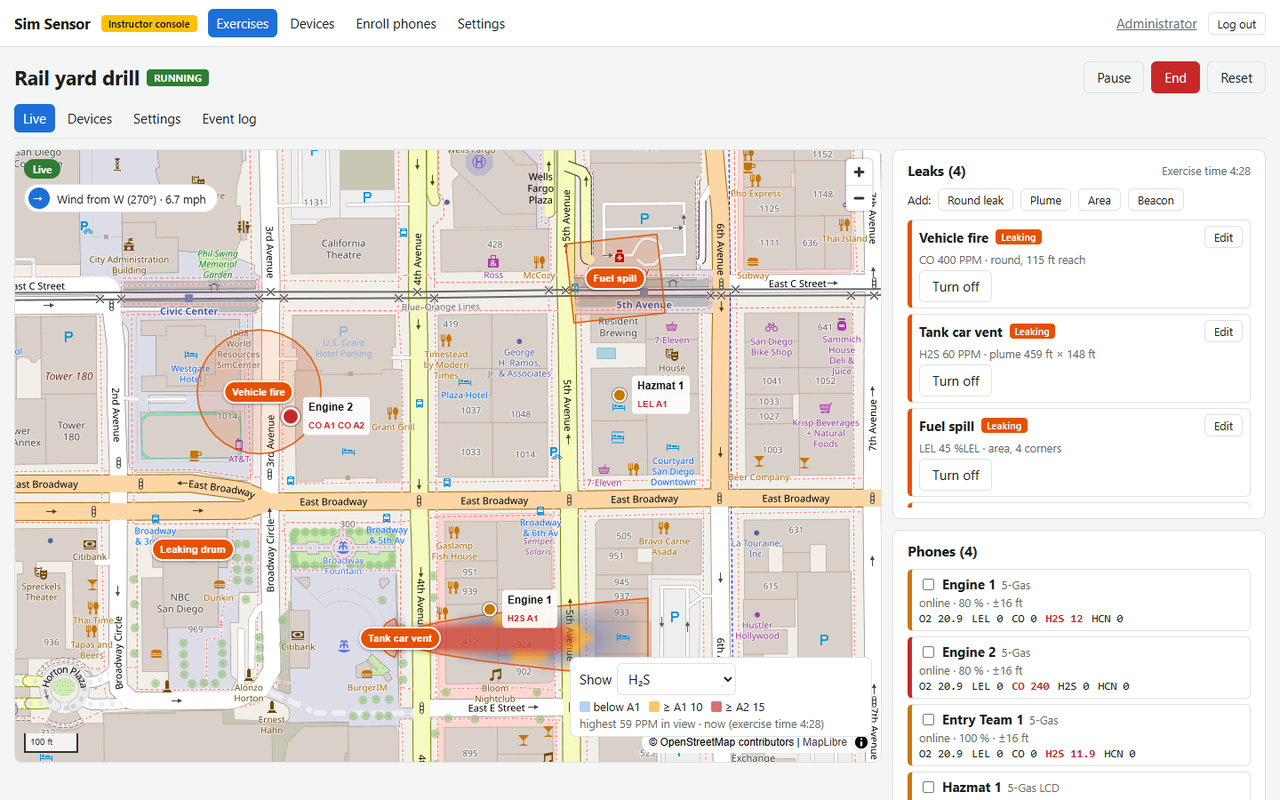
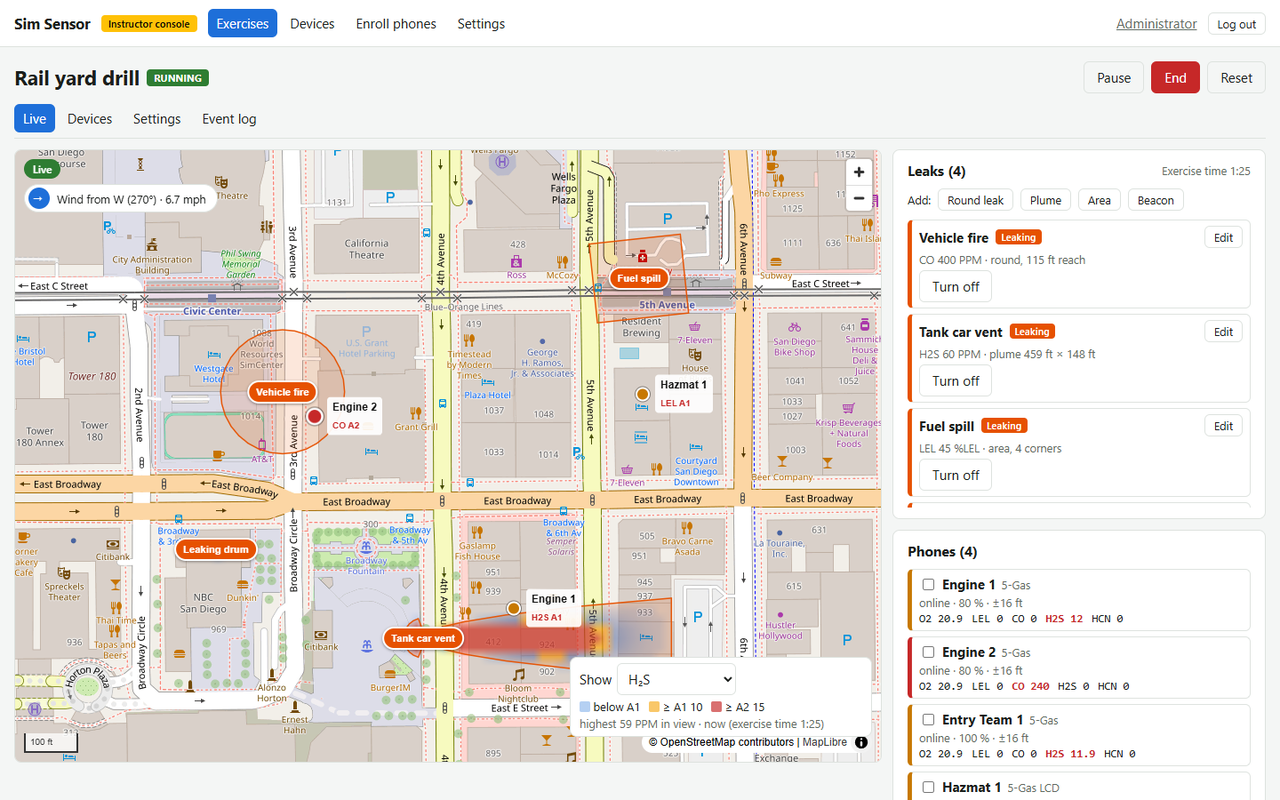
Map labels show the highest alarm; calibration pause follows visibility (v0.26.1)

Changed region(s): [[0.0, 0.1875, 0.6875, 0.9688], [0.5625, 0.9375, 0.625, 0.9688]]

diff --git a/android/src/main/java/com/taksolutions/simsensor/MainActivity.kt b/android/src/main/java/com/taksolutions/simsensor/MainActivity.kt
@@ -12,7 +12,6 @@ import androidx.activity.compose.setContent
 import androidx.activity.enableEdgeToEdge
 import androidx.activity.result.contract.ActivityResultContracts
 import androidx.compose.runtime.Composable
-import androidx.compose.runtime.DisposableEffect
 import androidx.compose.runtime.LaunchedEffect
 import androidx.compose.runtime.getValue
 import androidx.compose.runtime.mutableStateOf
@@ -22,6 +21,7 @@ import androidx.compose.runtime.setValue
 import androidx.core.content.ContextCompat
 import androidx.lifecycle.Lifecycle
 import androidx.lifecycle.compose.LifecycleEventEffect
+import androidx.lifecycle.compose.LifecycleStartEffect
 import androidx.lifecycle.compose.collectAsStateWithLifecycle
 import androidx.lifecycle.viewmodel.compose.viewModel
 import androidx.lifecycle.viewmodel.initializer
@@ -100,9 +100,12 @@ class MainActivity : ComponentActivity() {
                         if (beacon == null) {
                             LaunchedEffect(Unit) { calibrating = null } // beacon left the exercise
                         } else {
-                            DisposableEffect(Unit) {
+                            // Paused only while the screen is really on show: leaving with Home
+                            // (app in the background) resumes readings and alarms; coming back
+                            // pauses them again.
+                            LifecycleStartEffect(Unit) {
                                 vm.setCalibrating(true)
-                                onDispose { vm.setCalibrating(false) }
+                                onStopOrDispose { vm.setCalibrating(false) }
                             }
                             CalibrationScreen(
                                 beacon = beacon,

diff --git a/console/src/pages/exercise/LiveTab.tsx b/console/src/pages/exercise/LiveTab.tsx
@@ -19,7 +19,7 @@ import { NEW_LEAK_ID, newLeak } from "../../leaks/newLeak";
 import { PreviewControl } from "../../leaks/PreviewControl";
 import { emitting } from "../../leaks/timing";
 import { alarmSeverity, isStale, useExerciseLive, type LiveDevice } from "../../live/useExerciseLive";
-import { alarmLabel, alarmLabels } from "../../meter/alarms";
+import { alarmLabel, alarmLabels, shownAlarms } from "../../meter/alarms";
 import { combinedChannels, monitorFor } from "../../meter/monitors";
 import { LeakLayer } from "../../map/LeakLayer";
 import { LiveMap } from "../../map/LiveMap";
@@ -295,7 +295,7 @@ function DeviceRow({
           const value = device.last?.readings[id];
           const alarm = device.last?.alarms.filter((a) => a.startsWith(`${id}:`)).map((a) => a.split(":")[1]);
           return (
-            <span key={id} className={`reading${alarm?.length ? " alarm" : ""}`} title={alarm?.map((a) => alarmLabel(`${id}:${a}`)).join(" ")}>
+            <span key={id} className={`reading${alarm?.length ? " alarm" : ""}`} title={shownAlarms((alarm ?? []).map((a) => `${id}:${a}`)).map(alarmLabel).join(" ")}>
               {id} {value ?? (alarm?.includes("FAULT") ? "FAULT" : "—")}
             </span>
           );

diff --git a/console/src/map/LiveMap.tsx b/console/src/map/LiveMap.tsx
@@ -2,7 +2,7 @@ import maplibregl, { type GeoJSONSource, type Map as MapLibre } from "maplibre-g
 import { useEffect, useRef } from "react";
 import type { ConsoleConfig, Units } from "../api/endpoints";
 import { alarmSeverity, isStale, type LiveDevice } from "../live/useExerciseLive";
-import { alarmLabel } from "../meter/alarms";
+import { alarmLabel, shownAlarms } from "../meter/alarms";
 
 const SEVERITY_CLASS = ["ok", "warn", "bad"] as const;
 
@@ -106,7 +106,7 @@ export function LiveMap({
       const label = document.createElement("span");
       label.className = "marker-label";
       label.textContent = d.name;
-      const alarms = d.last?.alarms ?? [];
+      const alarms = shownAlarms(d.last?.alarms ?? []);
       if (alarms.length) {
         const sub = document.createElement("small");
         sub.textContent = alarms.map(alarmLabel).join(" ");

diff --git a/console/src/meter/alarms.ts b/console/src/meter/alarms.ts
@@ -32,6 +32,15 @@ export function alarmLabel(code: string): string {
   return level ? `${channel} ${LEVEL_LABELS[level] ?? level}` : code;
 }
 
+/**
+ * The alarms a meter shows: A2 replaces A1 on the same gas (as on the phone), so "CO:LOW" is
+ * dropped when "CO:HIGH" is there. STEL, TWA and the rest stay.
+ */
+export function shownAlarms(codes: string[]): string[] {
+  const high = new Set(codes.filter((c) => c.endsWith(":HIGH")).map((c) => c.split(":")[0]));
+  return codes.filter((c) => !(c.endsWith(":LOW") && high.has(c.split(":")[0])));
+}
+
 /** Labels for a list of codes, e.g. an "alarm.raised" event's "CO:HIGH, H2S:LOW". */
 export function alarmLabels(codes: string): string {
   return codes

diff --git a/docs/RELEASE_NOTES.md b/docs/RELEASE_NOTES.md
@@ -2,6 +2,14 @@
 
 Newest first. One section per release (see `CLAUDE.md` §9).
 
+## v0.26.1 — 2026-10-17
+
+- Console, Live map: a phone's label shows the highest alarm per gas, like the meter (for
+  example "CO A2" instead of "CO A1 CO A2"). The same applies to the readings' tooltip in the
+  phone list.
+- Phone: leaving the Calibrate screen with the Home button no longer leaves readings and alarms
+  paused in the background. They pause only while the Calibrate screen is actually on show.
+
 ## v0.26.0 — 2026-10-17
 
 - **Update the server from the console:** **Settings → Server update** (admins) shows the running
